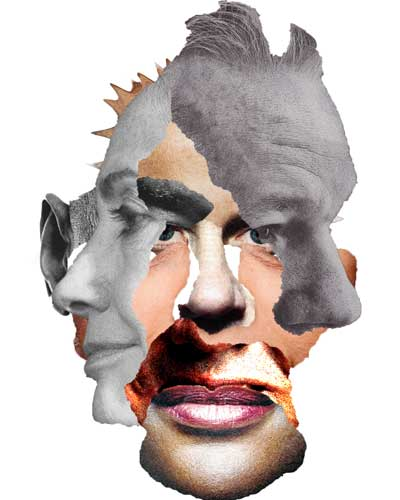
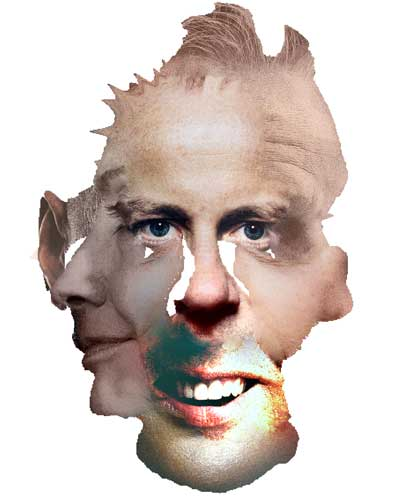
Art Update In Progress Series 1

diff --git a/sculptures.html b/sculptures.html
@@ -44,10 +44,13 @@
 
                         <h1>Sculptures</h1>
 
-                        <h2 class="col6">Eleganstor</h2>
-                        <h3 class="col6">2012. Wood on Plaster, Sawdust, &amp; Oil Painting.</h3>
-                        <p class="col6">A truth captured rising above.</p>
-                        <img src="img/eleganster.jpg" alt="sculpture">
+                        <div class="eleganster col6">
+                            <h2>Eleganstor</h2>
+                            <h3>2012. Wood on Plaster, Sawdust, &amp; Oil Painting.</h3>
+                            <p>A truth captured rising above.</p>
+                                                    <img src="img/eleganster.jpg" alt="sculpture">
+                        </div>
+
 
 
                     </section>       

diff --git a/css/main.css b/css/main.css
@@ -158,6 +158,27 @@ aside {
 }
 
 /*++++++++++++++++++++++++++++++++++++++++++++++++++++++++++++++++++++++++++++
+Portoflio Specific 2D and 3D
+++++++++++++++++++++++++++++++++++++++++++++++++++++++++++++++++++++++++++++*/
+
+img.faces-pol {
+  display: block;
+  margin-left: auto;
+  margin-right: auto;
+}
+
+.faces-pol-title {
+  text-align: center;
+}
+
+.eleganster {
+  border-right: 2px solid #E6E8FA;
+  padding: 10px 15px;
+  text-align: center;
+}
+
+
+/*++++++++++++++++++++++++++++++++++++++++++++++++++++++++++++++++++++++++++++
 Blog Specific
 ++++++++++++++++++++++++++++++++++++++++++++++++++++++++++++++++++++++++++++*/
 
@@ -523,7 +544,7 @@ Footer
     max-width: 100%;
   }
 
-  img {
+  img.logo {
     max-width: 100%;
   }
 

diff --git a/2D.html b/2D.html
@@ -42,7 +42,11 @@
                         
                         <section class="col12">
 
-                            <h1 class="titles">Pictures and Descriptions Coming Soon! &#9786;</h1>
+                            <h1 class="col12 titles">Photoshop</h1>
+
+                            <h2 class="faces-pol-title">Faces of Politics</h2>
+                            <img class="faces-pol col6" src="img/faces-of-politicsfirst.jpg">
+                            <img class="faces-pol col6 last" src="img/faces-of-politicslast.jpg">
 
 
                         </section>       
